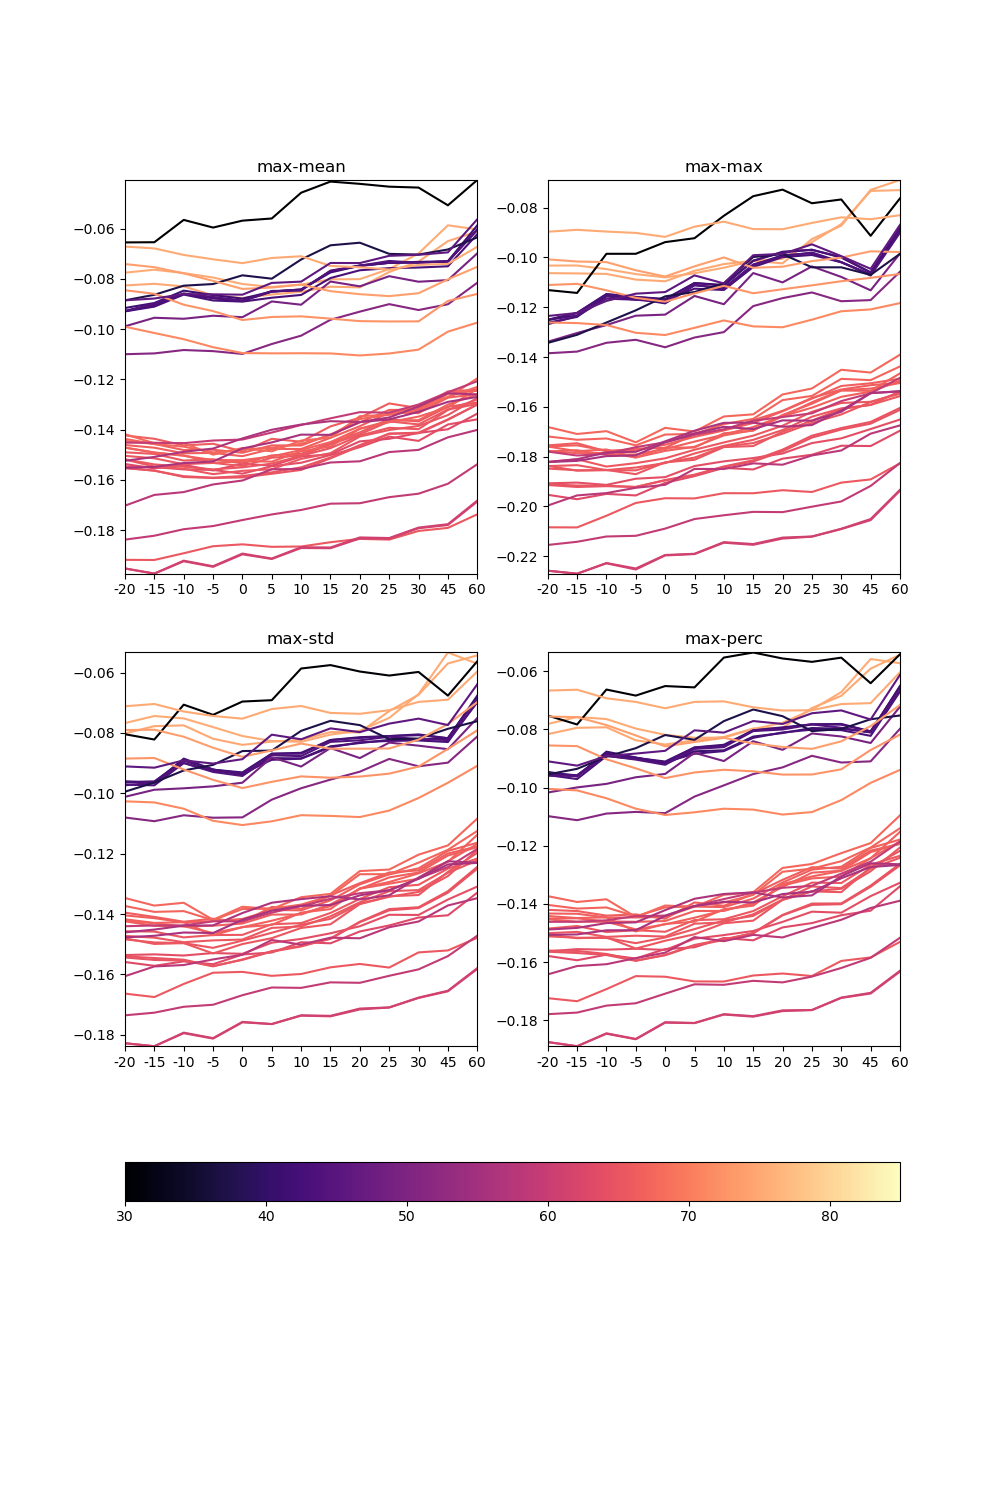
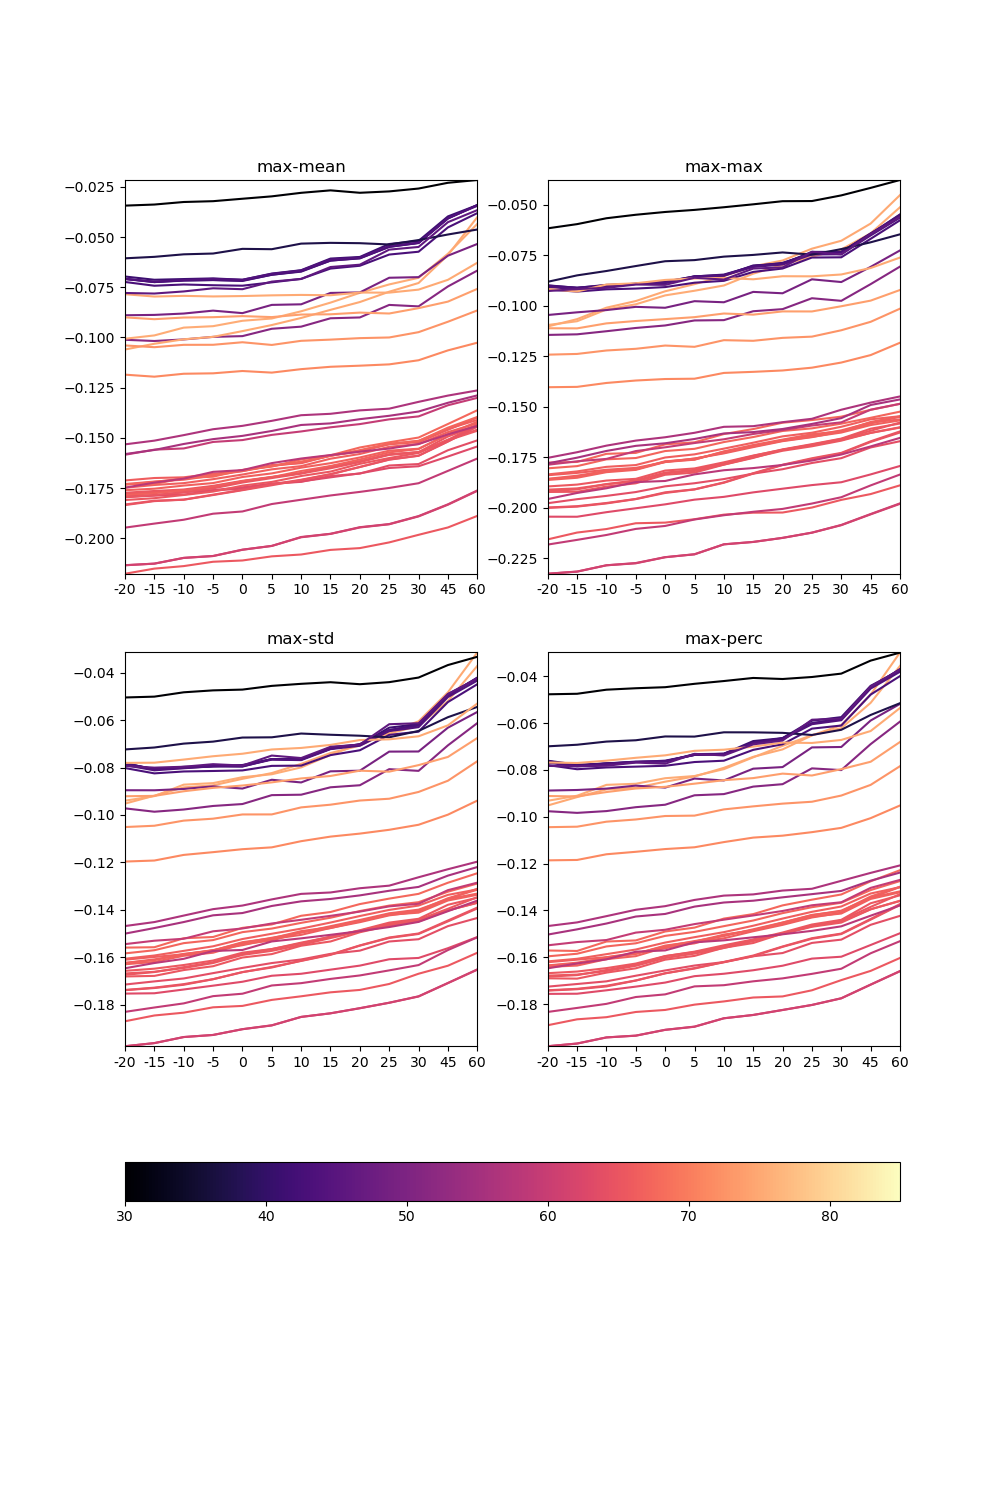
changing the time window

Changed region(s): [[0.062, 0.1227, 0.899, 0.3987], [0.093, 0.4293, 0.899, 0.7053], [0.496, 0.368, 0.527, 0.3987]]

diff --git a/time_correlation.py b/time_correlation.py
@@ -58,7 +58,7 @@ def loading_twins_maps():
 		for i, date in enumerate(twins_map['Epoch']):
 			check = pd.to_datetime(date.strftime(format='%Y-%m-%d %H:%M:%S'), format='%Y-%m-%d %H:%M:%S')
 			if check in times.values:
-				maps[check.round('T').strftime(format='%Y-%m-%d %H:%M:%S')] = twins_map['Ion_Temperature'][i]
+				maps[check.round('T').strftime(format='%Y-%m-%d %H:%M:%S')] = twins_map['Ion_Temperature'][i][:,60:]
 
 	stats_df = pd.DataFrame(index=maps.keys())
 	stats_df.index = pd.to_datetime(stats_df.index)
@@ -156,7 +156,7 @@ def calculating_correlations(regions, maps, delays):
 			combined_df[f'shifted_max_{delay}'] = combined_df['max'].shift(-delay)
 
 			# modify these lines to look at the max in a rolling window
-			indexer = pd.api.indexers.FixedForwardWindowIndexer(window_size=10)			# Yeah this is annoying, have to create a forward rolling indexer because it won't do it automatically.
+			indexer = pd.api.indexers.FixedForwardWindowIndexer(window_size=60)			# Yeah this is annoying, have to create a forward rolling indexer because it won't do it automatically.
 			combined_df[f'shifted_mean_{delay}_max'] = combined_df[f'shifted_mean_{delay}'].rolling(indexer, min_periods=1).max()		# creates new column in the df labeling the maximum parameter value in the forecast:forecast+window time frame
 			combined_df[f'shifted_max_{delay}_max'] = combined_df[f'shifted_max_{delay}'].rolling(indexer, min_periods=1).max()		# creates new column in the df labeling the maximum parameter value in the forecast:forecast+window time frame
 			# df.reset_index(drop=True, inplace=True)
